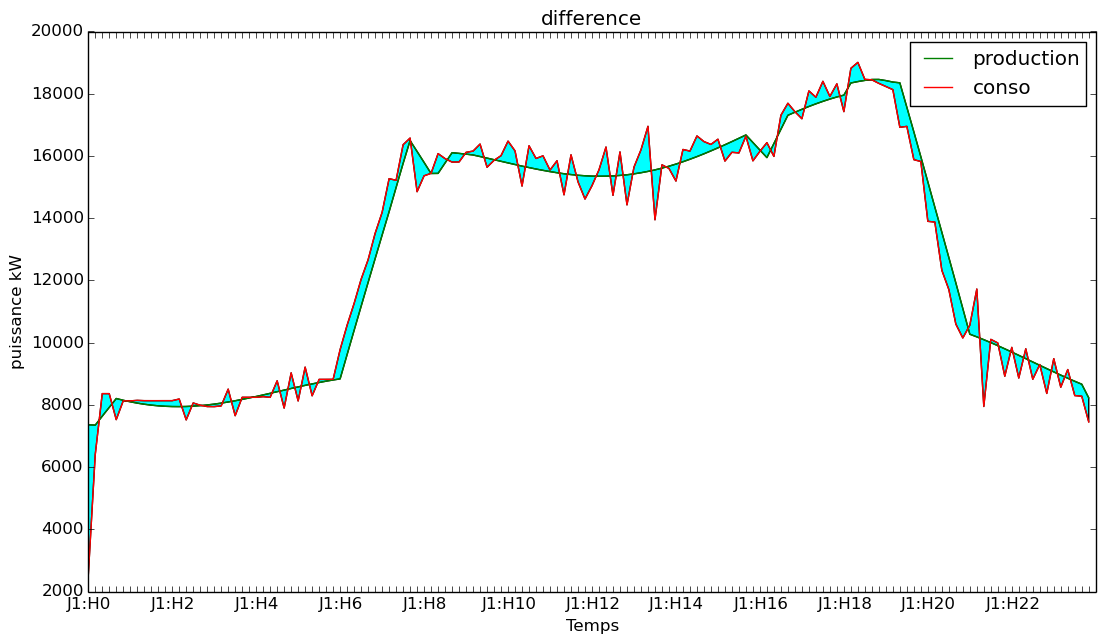
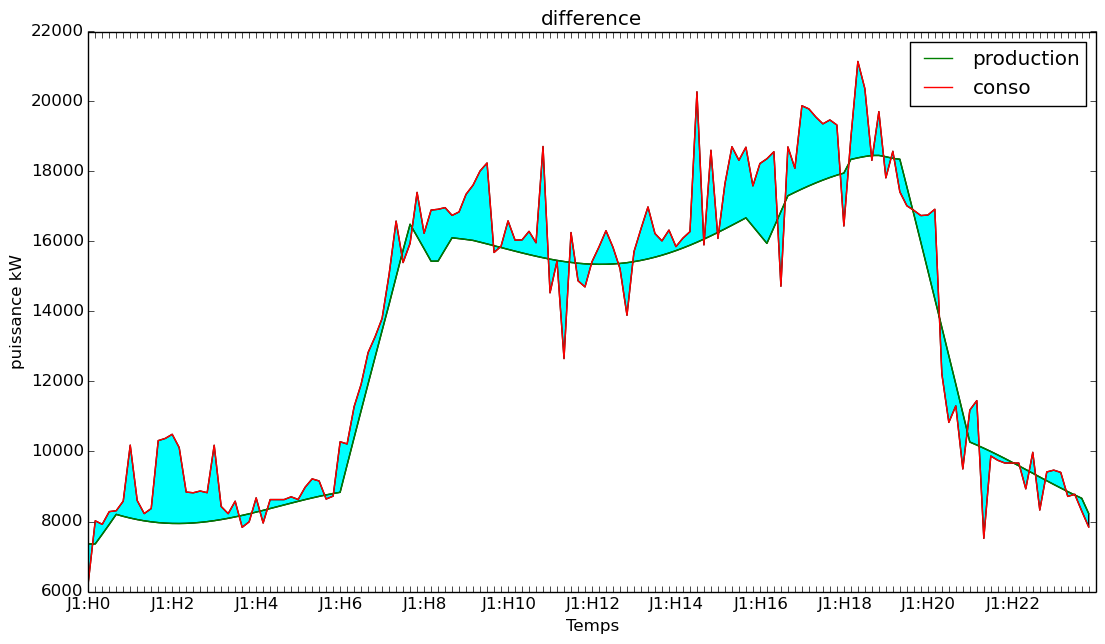
résultats

diff --git a/analyseur.py b/analyseur.py
@@ -235,8 +235,8 @@ c=ville.nombreEquipementConso
 b=ville.nombreEquipementProduction
 y1=[sum([etat[j][l]*ID[l]["Pmax"]/100. for l in range(b)]) for j in range(len(etat))]
 y0=[sum([-etat[j][l]*ID[l]["Pmax"]/100. for l in range(b,b+c)]) for j in range(len(etat))]
-a.plot(list(range(len(etat))), y0, linewidth=1, label="production",color=color[1%6])
-a.plot(list(range(len(etat))), y1, linewidth=1, label="conso",color=color[2%6])
+a.plot(list(range(len(etat))), y1, linewidth=1, label="production",color=color[1%6])
+a.plot(list(range(len(etat))), y0, linewidth=1, label="conso",color=color[2%6])
 a.fill_between(list(range(len(etat))),y0,y1,facecolor=color[3%6],interpolate=True)
 #a.fill_between(list(range(len(etat))),y0,y1,where=y0>y1,facecolor=color[4%6])
 handles, labels = a.get_legend_handles_labels()
